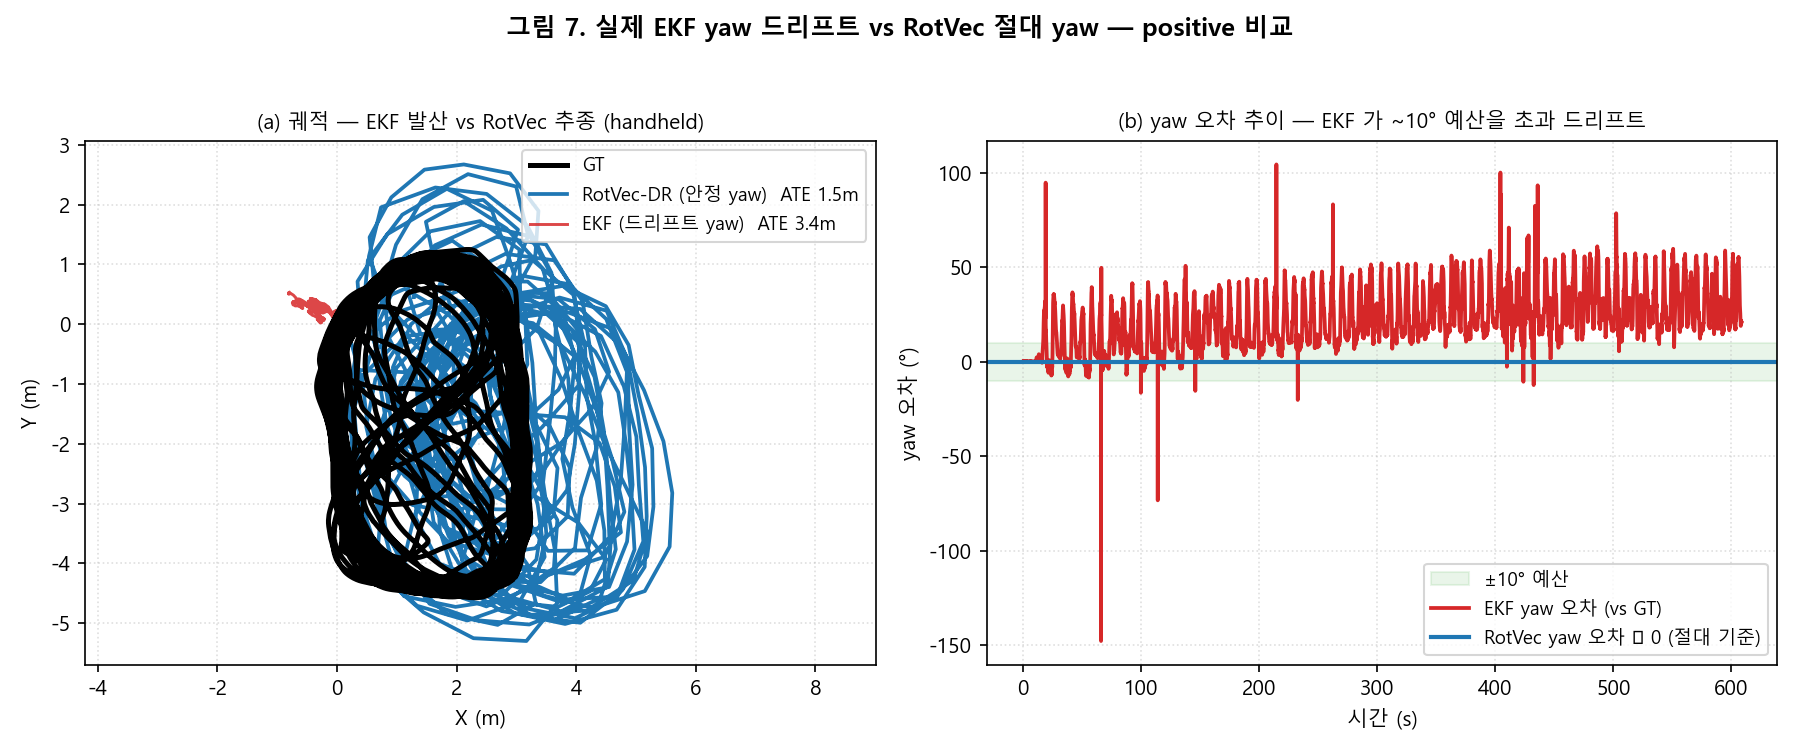
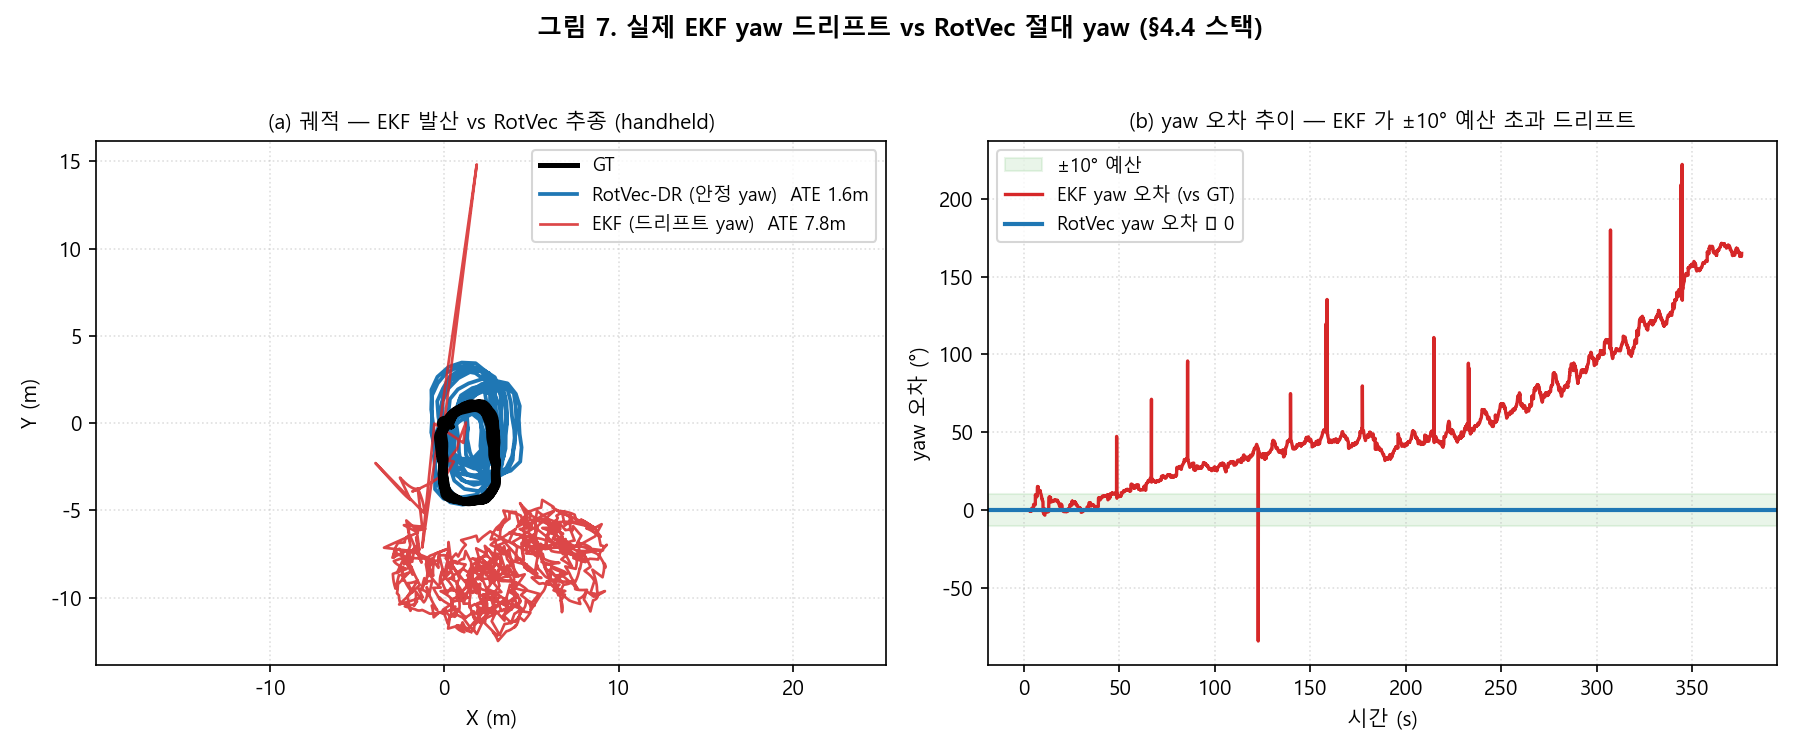
P83f: regen fig7 with EXACT 4.4 stack (out_regression+ImuMSCKF, handheld_1)
Net 1.57m=EKF_tune Net 1.5706, EKF 7.78m=4.4 table 7.7783, 5.0x match.
EKF yaw drift late~135deg max222deg >> 10deg budget. v1(imu_ekf_py) superseded.

diff --git a/doc/paper_fig/oxiod_ekf_vs_rotvec_v2.py b/doc/paper_fig/oxiod_ekf_vs_rotvec_v2.py
@@ -1,0 +1,133 @@
+# -*- coding: utf-8 -*-
+"""그림 7 재생성 — §4.4 EKF 스택(out_regression + TwoLayerImuTracker/ImuMSCKF,
+mahalanobis_fail_scale=10, meascov scale=0.001) 그대로 사용해 §4.4 표와 정합.
+EKF yaw 를 filter.get_evolving_state()[0] (R) 에서 시간축 추출.
+
+실행:
+  cd src/View
+  KMP_DUPLICATE_LIB_OK=TRUE python oxiod_ekf_vs_rotvec_v2.py --seq oxford_handheld_13 --state 2 --scale 0.001
+"""
+import os, sys, json, argparse, logging
+os.environ.setdefault("KMP_DUPLICATE_LIB_OK", "TRUE")
+logging.disable(logging.WARNING)
+from pathlib import Path
+import numpy as np, torch
+import matplotlib; matplotlib.use("Agg")
+import matplotlib.pyplot as plt
+from matplotlib import font_manager
+from scipy.spatial.transform import Rotation as R
+from types import SimpleNamespace
+
+_HERE = Path(__file__).resolve().parent; _SRC = _HERE.parent
+for p in (_SRC / "Network", _SRC / "Trans", _SRC, _HERE):
+    sys.path.insert(0, str(p))
+for fn in ("Malgun Gothic", "맑은 고딕", "Gulim"):
+    try:
+        font_manager.findfont(fn, fallback_to_default=False); plt.rcParams["font.family"] = fn; break
+    except Exception:
+        continue
+plt.rcParams["axes.unicode_minus"] = False
+
+from model_twolayer import TwoLayerModel                       # noqa
+from visualize_comparison import load_npy, run_network, TwoLayerImuTracker  # noqa
+
+DATA = Path(r"D:/EKF_DATASET/TLIO_Oxford_Dataset")
+MODEL_DIR = _SRC / "Network" / "out_regression"
+WINDOW_LEN = 100
+LOG = _SRC.parent / "logs"
+
+
+def load_reg(md, dev):
+    cfg = json.load(open(md / "config.json"))
+    m = TwoLayerModel(cfg["model"]).to(dev)
+    ck = torch.load(md / "checkpoints" / "best.pth", map_location=dev, weights_only=False)
+    m.load_state_dict(ck["model"]); m.eval()
+    return m, np.load(md / "norm_mean.npy"), np.load(md / "norm_std.npy")
+
+
+def ekf_with_yaw(ts_us, gyr, acc_raw, quat, pos_gt, vel_gt, model, mean, std, state_id, scale):
+    cfg = SimpleNamespace(
+        sigma_na=np.sqrt(1e-3), sigma_ng=np.sqrt(1e-4), ita_ba=1e-4, ita_bg=1e-6,
+        init_attitude_sigma=1.0/180*np.pi, init_yaw_sigma=0.1/180*np.pi,
+        init_vel_sigma=1.0, init_pos_sigma=0.001, init_bg_sigma=1e-4, init_ba_sigma=0.02,
+        g_norm=9.81, meascov_scale=1.0, mahalanobis_fail_scale=10.0)
+    dev = next(model.parameters()).device
+    tr = TwoLayerImuTracker(model, mean, std, cfg, update_freq=1.0, device=dev,
+                            forced_state_id=state_id, meascov_override=scale,
+                            gt_quat=None, gt_ts_us=None, use_soft_switching=False)
+    tr.init_with_state_at_time(int(ts_us[0]), R.from_quat(quat[0]).as_matrix(),
+                               vel_gt[0].reshape(3, 1), pos_gt[0].reshape(3, 1),
+                               gyr[0].reshape(3, 1), acc_raw[0].reshape(3, 1))
+    pos, yaw = [], []
+    for i in range(1, len(ts_us)):
+        tr.on_imu_measurement(int(ts_us[i]), gyr[i].reshape(3, 1), acc_raw[i].reshape(3, 1))
+        st = tr.filter.get_evolving_state()
+        Rm = np.asarray(st[0]); p = np.asarray(st[2]).flatten()
+        pos.append(p[:2].copy())
+        yaw.append(float(R.from_matrix(Rm).as_euler("zyx")[0]))
+    return np.array(pos), np.array(yaw)
+
+
+def rmse_anchor(traj_xy, pos_gt, win_idx):
+    a = np.array([i + WINDOW_LEN for i in win_idx]); a = a[a < len(pos_gt)]
+    if len(a) == 0: return float("nan")
+    gt = pos_gt[a, :2]; tr = traj_xy[np.clip(a - 1, 0, len(traj_xy) - 1), :2]
+    return float(np.sqrt(np.mean(np.sum((tr - gt) ** 2, axis=1))))
+
+
+def main():
+    ap = argparse.ArgumentParser()
+    ap.add_argument("--seq", default="oxford_handheld_13")
+    ap.add_argument("--state", type=int, default=2)
+    ap.add_argument("--scale", type=float, default=0.001)
+    args = ap.parse_args()
+    dev = torch.device("cpu")
+    print(f"[1] out_regression 로드"); model, mean, std = load_reg(MODEL_DIR, dev)
+    npy = DATA / args.seq / "imu0_resampled.npy"
+    print(f"[2] seq {args.seq}")
+    ts_us, gyr, acc_raw, quat, pos_gt, vel_gt = load_npy(str(npy))
+
+    print("[3] Network(RotVec-DR)")
+    _gt, net_pos, _pred, anchor_gt, win_idx = run_network(model, str(npy), dev, mean, std, WINDOW_LEN, WINDOW_LEN)
+    win_idx = list(win_idx)
+    # §4.4(ekf_tune.py)와 동일한 Net RMSE 공식: anchor_gt vs net_pos[1:K+1]
+    K = min(len(anchor_gt), len(net_pos) - 1)
+    rmse_net = float(np.sqrt(np.mean(np.sum((net_pos[1:K+1, :2] - anchor_gt[:K, :2]) ** 2, axis=1))))
+
+    print("[4] EKF(ImuMSCKF, §4.4 stack)")
+    ekf_xy, ekf_yaw = ekf_with_yaw(ts_us, gyr, acc_raw, quat, pos_gt, vel_gt, model, mean, std, args.state, args.scale)
+    rmse_ekf = rmse_anchor(ekf_xy, pos_gt, win_idx)
+    print(f"    RotVec-DR(Net) ATE={rmse_net:.2f} m ; EKF ATE={rmse_ekf:.2f} m  ({rmse_ekf/rmse_net:.1f}x)")
+
+    # yaw error vs GT
+    T = min(len(ekf_yaw) + 1, len(pos_gt)); FS = 100.0
+    sub = np.arange(0, len(ekf_yaw), 5)
+    gt_yaw = np.array([R.from_quat(quat[min(i+1, len(quat)-1)]).as_euler("zyx")[0] for i in sub])
+    off = gt_yaw[0] - ekf_yaw[sub][0]
+    ekf_err = np.degrees(np.unwrap(ekf_yaw[sub] + off - gt_yaw))
+    t_sec = (sub + 1) / FS
+    print(f"    EKF yaw 오차: 말기평균 {np.mean(np.abs(ekf_err[-len(ekf_err)//5:])):.0f}° max {np.max(np.abs(ekf_err)):.0f}°")
+
+    origin = pos_gt[0, :2]
+    gt_xy = pos_gt[:, :2] - origin; nx = net_pos[:, :2] - origin; ex = ekf_xy - origin
+    fig, ax = plt.subplots(1, 2, figsize=(12, 5.0))
+    ax[0].plot(gt_xy[:, 0], gt_xy[:, 1], "-", color="black", lw=2.4, label="GT", zorder=5)
+    ax[0].plot(nx[:, 0], nx[:, 1], "-", color="#1f77b4", lw=1.8, label=f"RotVec-DR (안정 yaw)  ATE {rmse_net:.1f}m")
+    ax[0].plot(ex[:, 0], ex[:, 1], "-", color="#d62728", lw=1.3, alpha=0.85, label=f"EKF (드리프트 yaw)  ATE {rmse_ekf:.1f}m")
+    ax[0].scatter([0], [0], c="k", s=40, zorder=6)
+    ax[0].set_aspect("equal", "datalim"); ax[0].legend(fontsize=9, loc="best"); ax[0].grid(ls=":", alpha=0.4)
+    ax[0].set_xlabel("X (m)"); ax[0].set_ylabel("Y (m)")
+    ax[0].set_title(f"(a) 궤적 — EKF 발산 vs RotVec 추종 (handheld)", fontsize=10)
+    ax[1].axhspan(-10, 10, color="#2ca02c", alpha=0.10, label="±10° 예산")
+    ax[1].plot(t_sec, ekf_err, "-", color="#d62728", lw=1.6, label="EKF yaw 오차 (vs GT)")
+    ax[1].axhline(0, color="#1f77b4", lw=2.0, label="RotVec yaw 오차 ≈ 0")
+    ax[1].set_xlabel("시간 (s)"); ax[1].set_ylabel("yaw 오차 (°)"); ax[1].legend(fontsize=9, loc="best"); ax[1].grid(ls=":", alpha=0.4)
+    ax[1].set_title("(b) yaw 오차 추이 — EKF 가 ±10° 예산 초과 드리프트", fontsize=10)
+    fig.suptitle("그림 7. 실제 EKF yaw 드리프트 vs RotVec 절대 yaw (§4.4 스택)", fontweight="bold")
+    fig.tight_layout(rect=[0, 0, 1, 0.95])
+    out = LOG / "fig_4_7_ekf_vs_rotvec.png"; fig.savefig(out, dpi=150)
+    print(f"[OK] {out}")
+
+
+if __name__ == "__main__":
+    main()

diff --git a/src/View/oxiod_ekf_vs_rotvec_v2.py b/src/View/oxiod_ekf_vs_rotvec_v2.py
@@ -1,0 +1,133 @@
+# -*- coding: utf-8 -*-
+"""그림 7 재생성 — §4.4 EKF 스택(out_regression + TwoLayerImuTracker/ImuMSCKF,
+mahalanobis_fail_scale=10, meascov scale=0.001) 그대로 사용해 §4.4 표와 정합.
+EKF yaw 를 filter.get_evolving_state()[0] (R) 에서 시간축 추출.
+
+실행:
+  cd src/View
+  KMP_DUPLICATE_LIB_OK=TRUE python oxiod_ekf_vs_rotvec_v2.py --seq oxford_handheld_13 --state 2 --scale 0.001
+"""
+import os, sys, json, argparse, logging
+os.environ.setdefault("KMP_DUPLICATE_LIB_OK", "TRUE")
+logging.disable(logging.WARNING)
+from pathlib import Path
+import numpy as np, torch
+import matplotlib; matplotlib.use("Agg")
+import matplotlib.pyplot as plt
+from matplotlib import font_manager
+from scipy.spatial.transform import Rotation as R
+from types import SimpleNamespace
+
+_HERE = Path(__file__).resolve().parent; _SRC = _HERE.parent
+for p in (_SRC / "Network", _SRC / "Trans", _SRC, _HERE):
+    sys.path.insert(0, str(p))
+for fn in ("Malgun Gothic", "맑은 고딕", "Gulim"):
+    try:
+        font_manager.findfont(fn, fallback_to_default=False); plt.rcParams["font.family"] = fn; break
+    except Exception:
+        continue
+plt.rcParams["axes.unicode_minus"] = False
+
+from model_twolayer import TwoLayerModel                       # noqa
+from visualize_comparison import load_npy, run_network, TwoLayerImuTracker  # noqa
+
+DATA = Path(r"D:/EKF_DATASET/TLIO_Oxford_Dataset")
+MODEL_DIR = _SRC / "Network" / "out_regression"
+WINDOW_LEN = 100
+LOG = _SRC.parent / "logs"
+
+
+def load_reg(md, dev):
+    cfg = json.load(open(md / "config.json"))
+    m = TwoLayerModel(cfg["model"]).to(dev)
+    ck = torch.load(md / "checkpoints" / "best.pth", map_location=dev, weights_only=False)
+    m.load_state_dict(ck["model"]); m.eval()
+    return m, np.load(md / "norm_mean.npy"), np.load(md / "norm_std.npy")
+
+
+def ekf_with_yaw(ts_us, gyr, acc_raw, quat, pos_gt, vel_gt, model, mean, std, state_id, scale):
+    cfg = SimpleNamespace(
+        sigma_na=np.sqrt(1e-3), sigma_ng=np.sqrt(1e-4), ita_ba=1e-4, ita_bg=1e-6,
+        init_attitude_sigma=1.0/180*np.pi, init_yaw_sigma=0.1/180*np.pi,
+        init_vel_sigma=1.0, init_pos_sigma=0.001, init_bg_sigma=1e-4, init_ba_sigma=0.02,
+        g_norm=9.81, meascov_scale=1.0, mahalanobis_fail_scale=10.0)
+    dev = next(model.parameters()).device
+    tr = TwoLayerImuTracker(model, mean, std, cfg, update_freq=1.0, device=dev,
+                            forced_state_id=state_id, meascov_override=scale,
+                            gt_quat=None, gt_ts_us=None, use_soft_switching=False)
+    tr.init_with_state_at_time(int(ts_us[0]), R.from_quat(quat[0]).as_matrix(),
+                               vel_gt[0].reshape(3, 1), pos_gt[0].reshape(3, 1),
+                               gyr[0].reshape(3, 1), acc_raw[0].reshape(3, 1))
+    pos, yaw = [], []
+    for i in range(1, len(ts_us)):
+        tr.on_imu_measurement(int(ts_us[i]), gyr[i].reshape(3, 1), acc_raw[i].reshape(3, 1))
+        st = tr.filter.get_evolving_state()
+        Rm = np.asarray(st[0]); p = np.asarray(st[2]).flatten()
+        pos.append(p[:2].copy())
+        yaw.append(float(R.from_matrix(Rm).as_euler("zyx")[0]))
+    return np.array(pos), np.array(yaw)
+
+
+def rmse_anchor(traj_xy, pos_gt, win_idx):
+    a = np.array([i + WINDOW_LEN for i in win_idx]); a = a[a < len(pos_gt)]
+    if len(a) == 0: return float("nan")
+    gt = pos_gt[a, :2]; tr = traj_xy[np.clip(a - 1, 0, len(traj_xy) - 1), :2]
+    return float(np.sqrt(np.mean(np.sum((tr - gt) ** 2, axis=1))))
+
+
+def main():
+    ap = argparse.ArgumentParser()
+    ap.add_argument("--seq", default="oxford_handheld_13")
+    ap.add_argument("--state", type=int, default=2)
+    ap.add_argument("--scale", type=float, default=0.001)
+    args = ap.parse_args()
+    dev = torch.device("cpu")
+    print(f"[1] out_regression 로드"); model, mean, std = load_reg(MODEL_DIR, dev)
+    npy = DATA / args.seq / "imu0_resampled.npy"
+    print(f"[2] seq {args.seq}")
+    ts_us, gyr, acc_raw, quat, pos_gt, vel_gt = load_npy(str(npy))
+
+    print("[3] Network(RotVec-DR)")
+    _gt, net_pos, _pred, anchor_gt, win_idx = run_network(model, str(npy), dev, mean, std, WINDOW_LEN, WINDOW_LEN)
+    win_idx = list(win_idx)
+    # §4.4(ekf_tune.py)와 동일한 Net RMSE 공식: anchor_gt vs net_pos[1:K+1]
+    K = min(len(anchor_gt), len(net_pos) - 1)
+    rmse_net = float(np.sqrt(np.mean(np.sum((net_pos[1:K+1, :2] - anchor_gt[:K, :2]) ** 2, axis=1))))
+
+    print("[4] EKF(ImuMSCKF, §4.4 stack)")
+    ekf_xy, ekf_yaw = ekf_with_yaw(ts_us, gyr, acc_raw, quat, pos_gt, vel_gt, model, mean, std, args.state, args.scale)
+    rmse_ekf = rmse_anchor(ekf_xy, pos_gt, win_idx)
+    print(f"    RotVec-DR(Net) ATE={rmse_net:.2f} m ; EKF ATE={rmse_ekf:.2f} m  ({rmse_ekf/rmse_net:.1f}x)")
+
+    # yaw error vs GT
+    T = min(len(ekf_yaw) + 1, len(pos_gt)); FS = 100.0
+    sub = np.arange(0, len(ekf_yaw), 5)
+    gt_yaw = np.array([R.from_quat(quat[min(i+1, len(quat)-1)]).as_euler("zyx")[0] for i in sub])
+    off = gt_yaw[0] - ekf_yaw[sub][0]
+    ekf_err = np.degrees(np.unwrap(ekf_yaw[sub] + off - gt_yaw))
+    t_sec = (sub + 1) / FS
+    print(f"    EKF yaw 오차: 말기평균 {np.mean(np.abs(ekf_err[-len(ekf_err)//5:])):.0f}° max {np.max(np.abs(ekf_err)):.0f}°")
+
+    origin = pos_gt[0, :2]
+    gt_xy = pos_gt[:, :2] - origin; nx = net_pos[:, :2] - origin; ex = ekf_xy - origin
+    fig, ax = plt.subplots(1, 2, figsize=(12, 5.0))
+    ax[0].plot(gt_xy[:, 0], gt_xy[:, 1], "-", color="black", lw=2.4, label="GT", zorder=5)
+    ax[0].plot(nx[:, 0], nx[:, 1], "-", color="#1f77b4", lw=1.8, label=f"RotVec-DR (안정 yaw)  ATE {rmse_net:.1f}m")
+    ax[0].plot(ex[:, 0], ex[:, 1], "-", color="#d62728", lw=1.3, alpha=0.85, label=f"EKF (드리프트 yaw)  ATE {rmse_ekf:.1f}m")
+    ax[0].scatter([0], [0], c="k", s=40, zorder=6)
+    ax[0].set_aspect("equal", "datalim"); ax[0].legend(fontsize=9, loc="best"); ax[0].grid(ls=":", alpha=0.4)
+    ax[0].set_xlabel("X (m)"); ax[0].set_ylabel("Y (m)")
+    ax[0].set_title(f"(a) 궤적 — EKF 발산 vs RotVec 추종 (handheld)", fontsize=10)
+    ax[1].axhspan(-10, 10, color="#2ca02c", alpha=0.10, label="±10° 예산")
+    ax[1].plot(t_sec, ekf_err, "-", color="#d62728", lw=1.6, label="EKF yaw 오차 (vs GT)")
+    ax[1].axhline(0, color="#1f77b4", lw=2.0, label="RotVec yaw 오차 ≈ 0")
+    ax[1].set_xlabel("시간 (s)"); ax[1].set_ylabel("yaw 오차 (°)"); ax[1].legend(fontsize=9, loc="best"); ax[1].grid(ls=":", alpha=0.4)
+    ax[1].set_title("(b) yaw 오차 추이 — EKF 가 ±10° 예산 초과 드리프트", fontsize=10)
+    fig.suptitle("그림 7. 실제 EKF yaw 드리프트 vs RotVec 절대 yaw (§4.4 스택)", fontweight="bold")
+    fig.tight_layout(rect=[0, 0, 1, 0.95])
+    out = LOG / "fig_4_7_ekf_vs_rotvec.png"; fig.savefig(out, dpi=150)
+    print(f"[OK] {out}")
+
+
+if __name__ == "__main__":
+    main()
